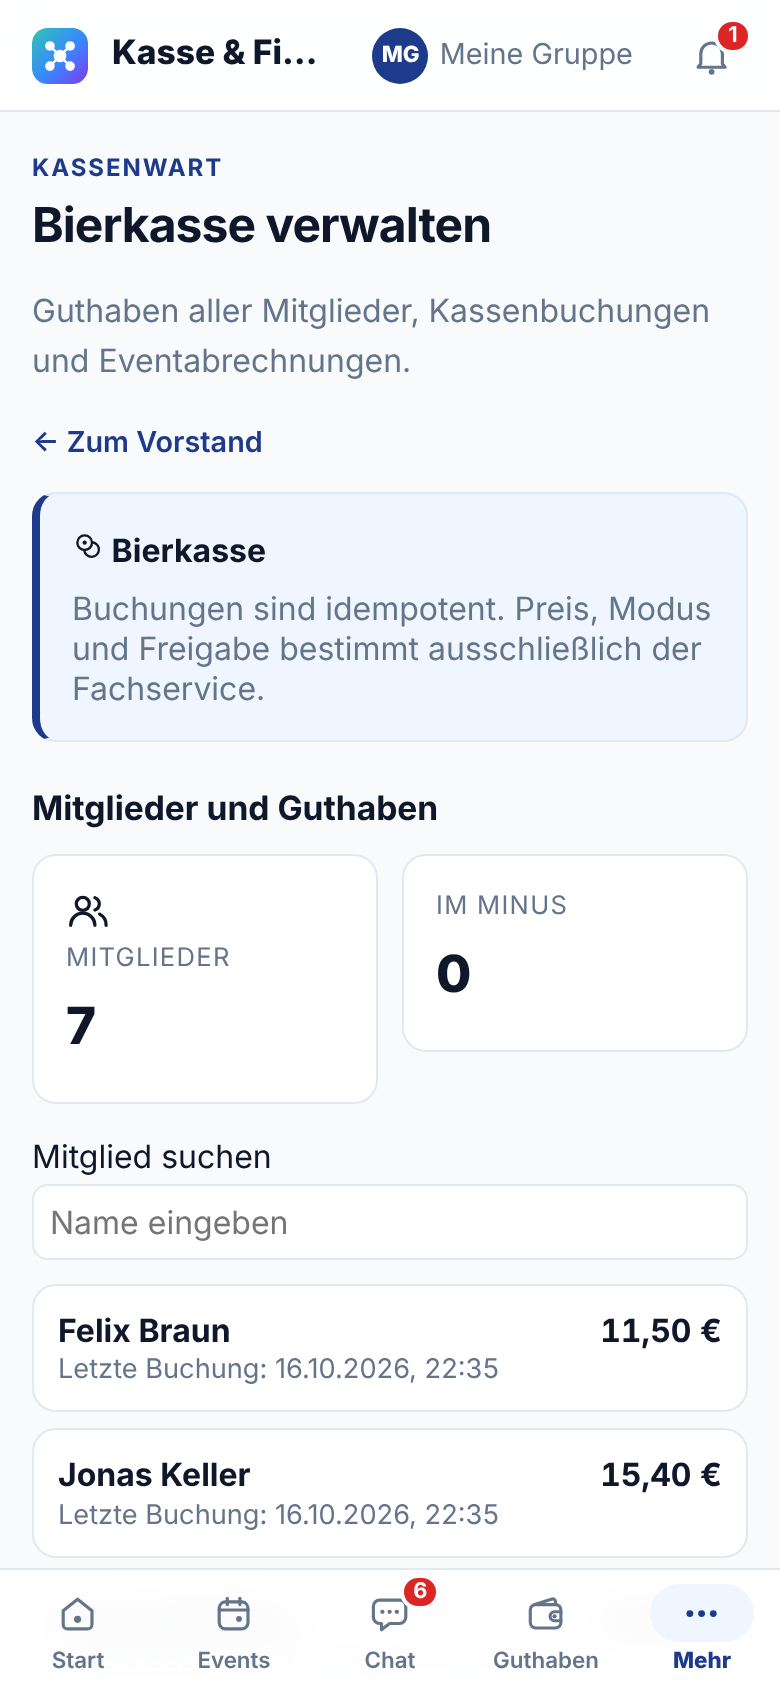
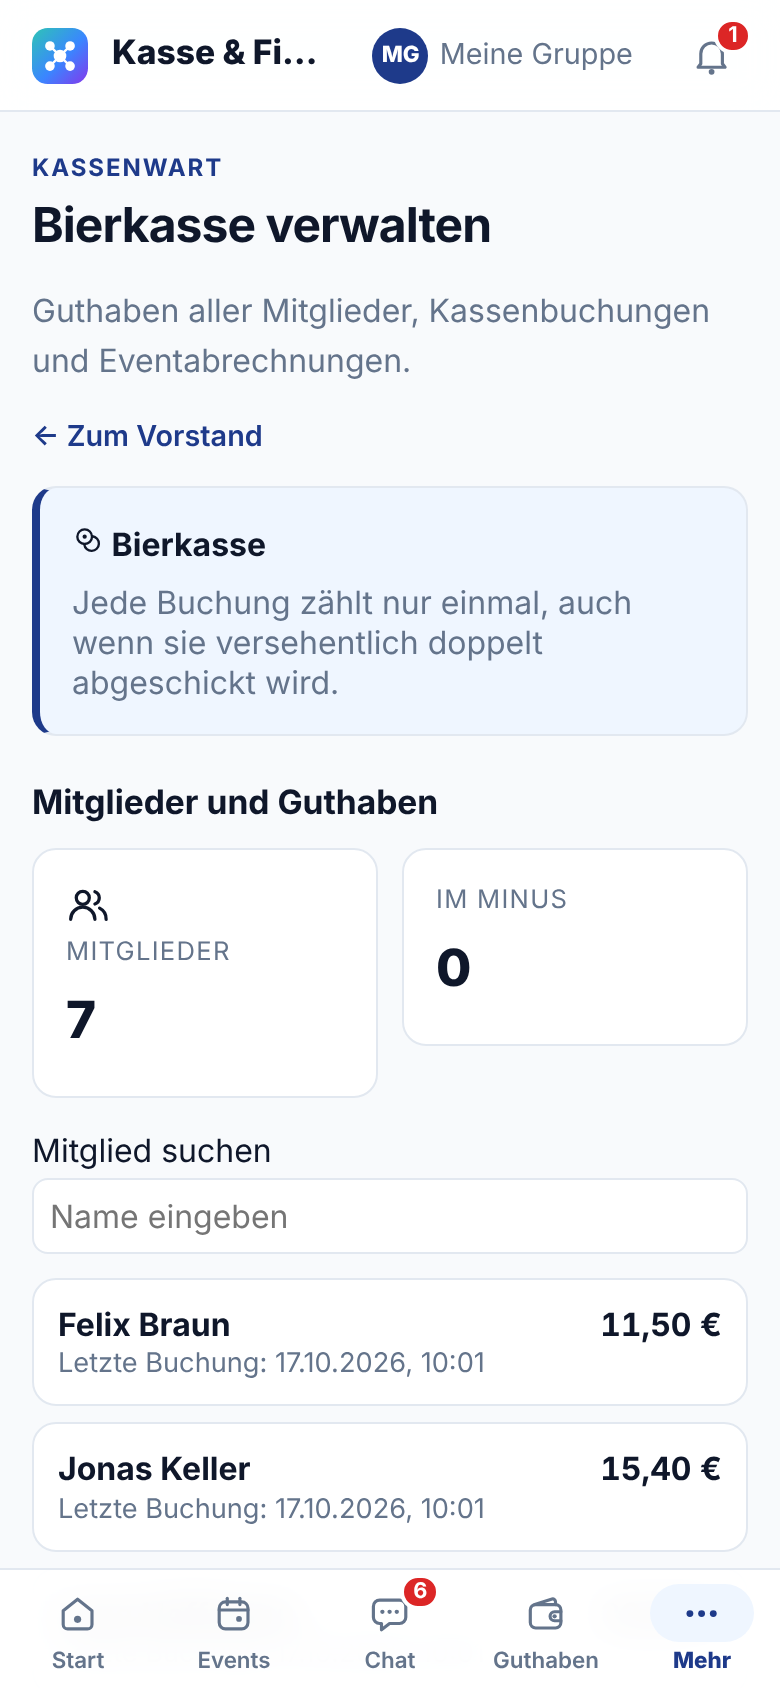
Fachbegriffe aus Hinweisen am Thekenterminal und in der Kasse entfernen
Das Fenster "Runde ausgeben" nannte den Idempotency-Key, die Kasse
sprach von idempotenten Buchungen und dem Fachservice. Die Hinweise
sagen jetzt in Alltagssprache, dass doppelte Klicks nur einmal gebucht
werden (de + en). Auch die Netzwerk-Fehlermeldung nennt keinen
Fachservice mehr. Handbuchbilder t-runde und v-kasse neu aufgenommen.

Claude-Session: https://claude.ai/code/session_01RGeGE7DWGxvFbsY5EodSKW

diff --git a/webservice/src/app/tablet/revenue-sheet.component.spec.ts b/webservice/src/app/tablet/revenue-sheet.component.spec.ts
@@ -28,11 +28,13 @@ describe('RevenueSheetComponent', () => {
     expect(root(fixture).querySelector('.sheet-list')).toBeFalsy();
   });
 
-  it('renders the beneficiaries and an idempotency hint while open', () => {
+  it('renders the beneficiaries and a double-tap hint without technical terms while open', () => {
     const fixture = create(true);
     expect(root(fixture).textContent).toContain('Alice');
     expect(root(fixture).textContent).toContain('Bob');
-    expect(root(fixture).textContent).toContain('Idempotency');
+    const text = root(fixture).textContent ?? '';
+    expect(text).toContain('nur einmal gebucht');
+    expect(text).not.toContain('Idempotency');
   });
 
   it('reflects the checkbox state from the selection', () => {
